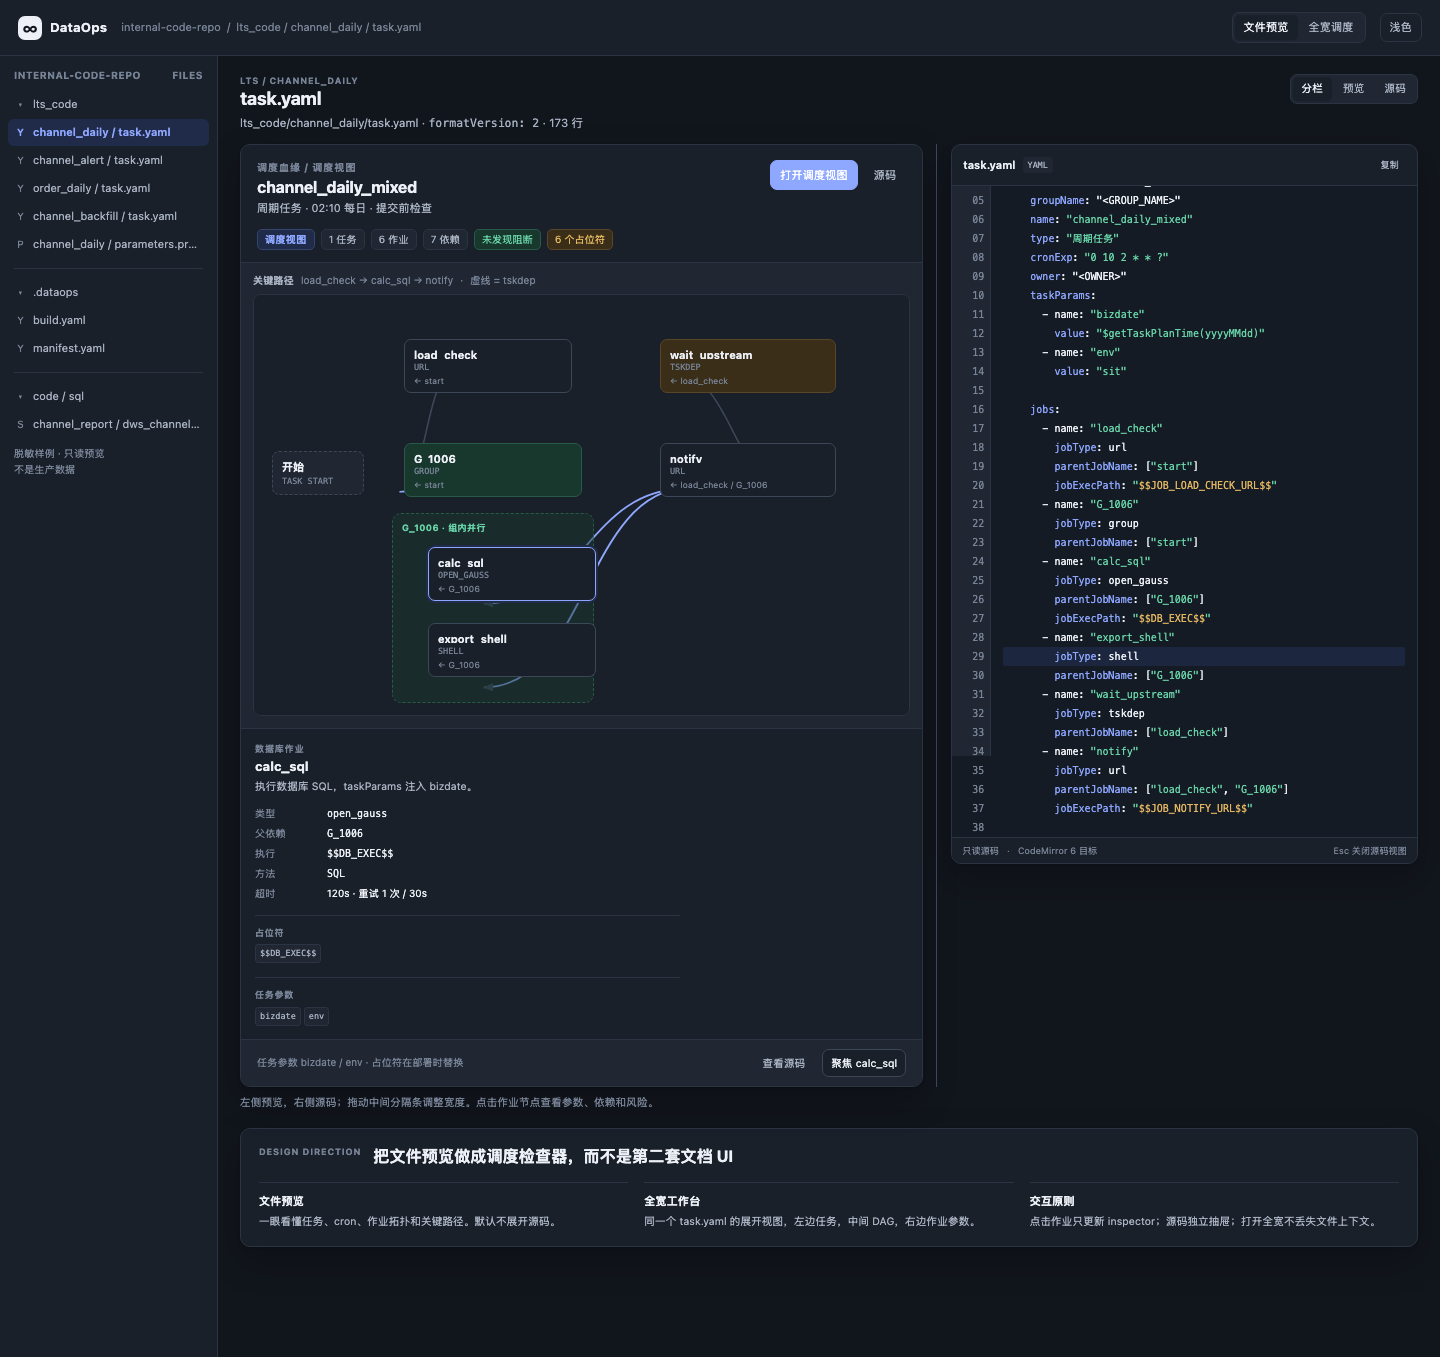
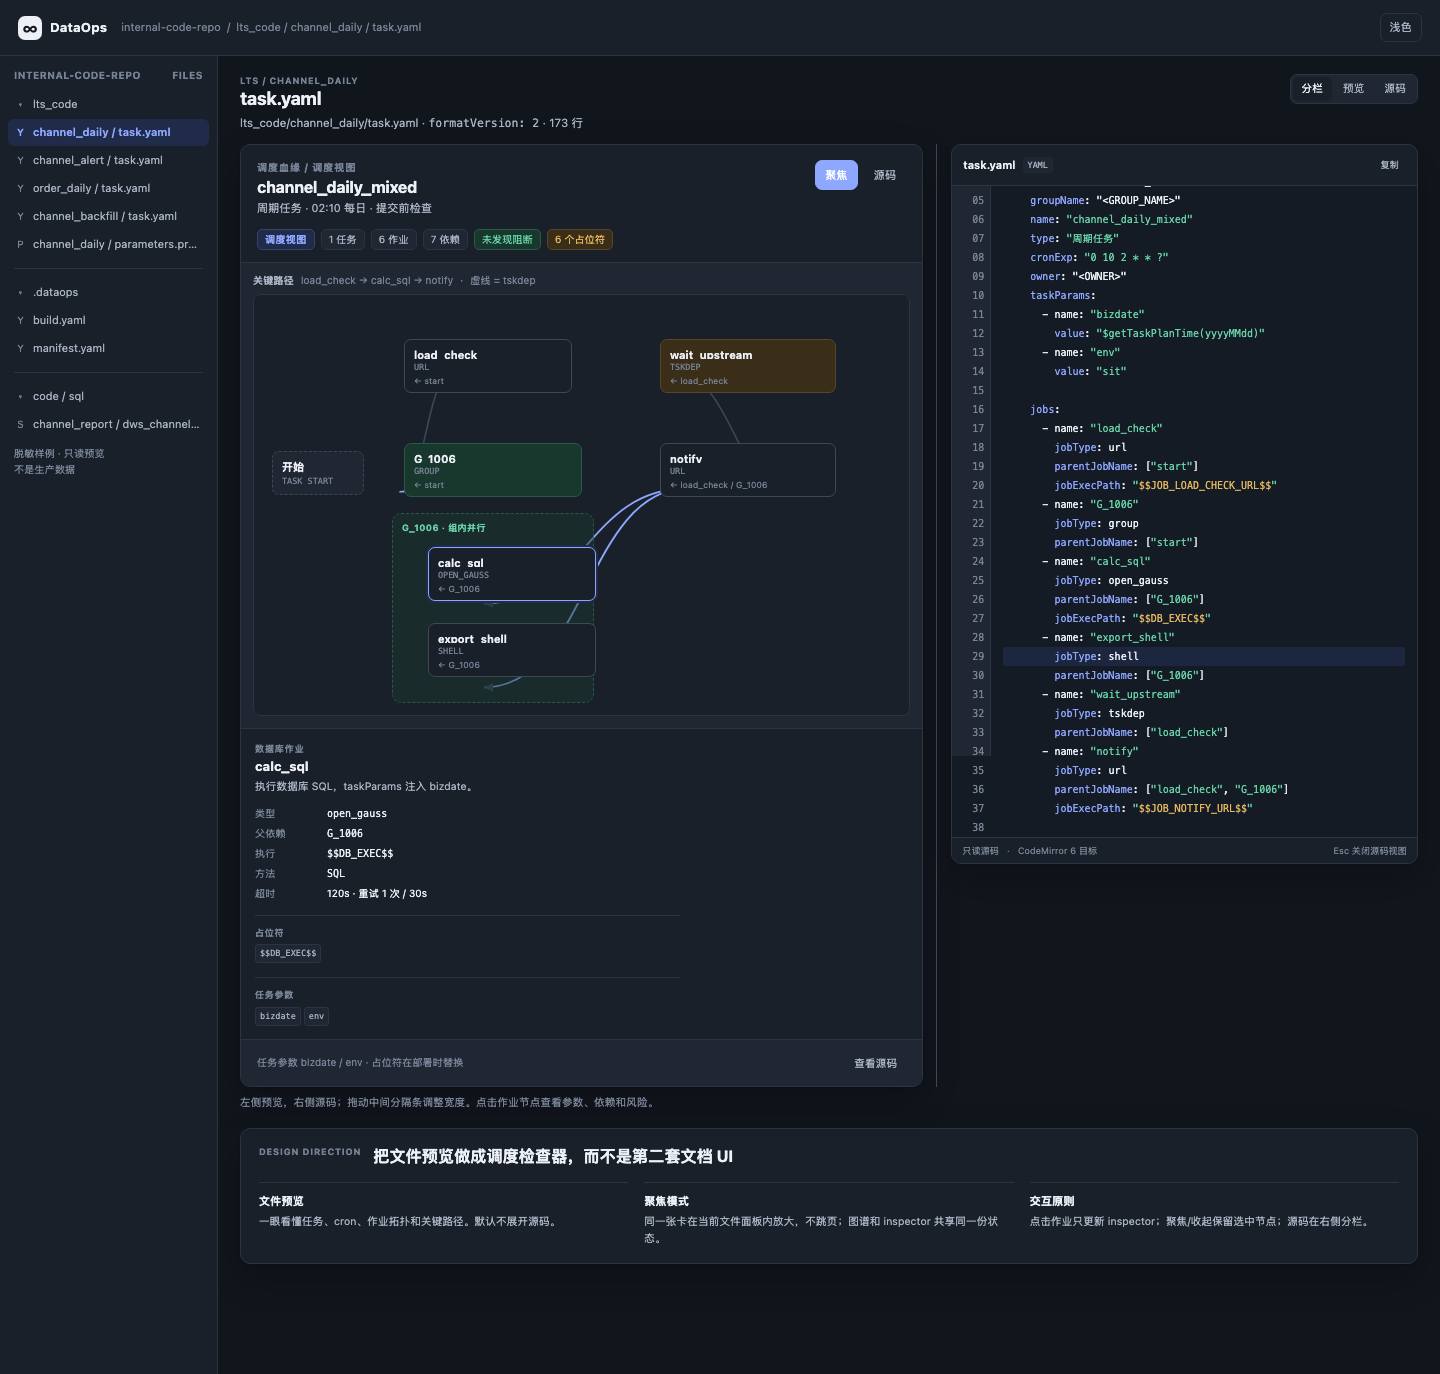
docs: prototype lineage card compact and focus states

diff --git a/prototype/schedule-lineage-redesign.html b/prototype/schedule-lineage-redesign.html
@@ -79,6 +79,16 @@
   .split-layout[data-view="preview"] .source-pane,.split-layout[data-view="preview"] .split-resizer{display:none}
   .split-layout[data-view="source"]{grid-template-columns:minmax(0,1fr)}
   .split-layout[data-view="source"] .preview-pane,.split-layout[data-view="source"] .split-resizer{display:none}
+  .split-layout[data-focus="true"]{grid-template-columns:minmax(0,1fr)}
+  .split-layout[data-focus="true"] .source-pane,.split-layout[data-focus="true"] .split-resizer{display:none}
+  .schedule-card[data-density="focus"]{height:calc(100vh - 190px);min-height:620px;display:flex;flex-direction:column}
+  .schedule-card[data-density="focus"] .card-head,.schedule-card[data-density="focus"] .meta-row,.schedule-card[data-density="focus"] .card-foot{flex:none}
+  .schedule-card[data-density="focus"] .card-body{flex:1;min-height:0;grid-template-columns:minmax(0,1fr) 252px;overflow:hidden}
+  .schedule-card[data-density="focus"] .graph-panel{overflow:auto;display:flex;flex-direction:column;min-height:0}
+  .schedule-card[data-density="focus"] .graph-scroll{flex:1;min-height:0}
+  .schedule-card[data-density="focus"] .graph-canvas{height:470px}
+  .split-layout[data-focus="true"] .schedule-card[data-density="focus"] .card-body{grid-template-columns:minmax(0,1fr) 262px}
+  .split-layout[data-focus="true"] .schedule-card[data-density="focus"] .inspector{display:block;border-left:1px solid var(--line);border-top:0;overflow:auto}
   .preview-pane{min-width:0}
   .split-layout[data-view="split"] .card-body{grid-template-columns:1fr}
   .split-layout[data-view="split"] .inspector{border-left:0;border-top:1px solid var(--line);display:grid;grid-template-columns:minmax(0,1fr) 210px;column-gap:18px}
@@ -216,10 +226,6 @@
     <div class="brand"><span class="brand-mark">∞</span><span>DataOps</span></div>
     <div class="crumb"><span>internal-code-repo</span><span>/</span><span class="path">lts_code / channel_daily / task.yaml</span></div>
     <div class="spacer"></div>
-    <div class="mode-switch" role="group" aria-label="预览模式">
-      <button id="modeFile" data-active="true">文件预览</button>
-      <button id="modeWork" data-active="false">全宽调度</button>
-    </div>
     <button class="theme" id="theme">深色</button>
   </header>
   <div class="shell">
@@ -258,7 +264,7 @@
         </div>
         <div class="split-layout" id="splitLayout" data-view="split">
           <div class="preview-pane">
-        <div class="schedule-card">
+        <div class="schedule-card" id="scheduleCard" data-density="compact">
           <div class="card-head">
             <div>
               <div class="card-kicker">调度血缘 / 调度视图</div>
@@ -266,7 +272,7 @@
               <p class="card-sub">周期任务 · 02:10 每日 · 提交前检查</p>
             </div>
             <div class="card-actions">
-              <button class="btn primary" id="openWork">打开调度视图</button>
+              <button class="btn primary" id="focusCard">聚焦</button>
               <button class="btn ghost" id="openSource">源码</button>
             </div>
           </div>
@@ -289,7 +295,7 @@
             <span class="muted">任务参数 bizdate / env · 占位符在部署时替换</span>
             <span class="spacer"></span>
             <button class="btn ghost" id="openSourceFoot">查看源码</button>
-            <button class="btn" id="focusWork">聚焦 calc_sql</button>
+
           </div>
         </div>
           </div>
@@ -313,45 +319,12 @@
           <div class="notes-head"><span class="eyebrow">DESIGN DIRECTION</span><h2>把文件预览做成调度检查器，而不是第二套文档 UI</h2></div>
           <div class="notes-grid">
             <article><b>文件预览</b><p>一眼看懂任务、cron、作业拓扑和关键路径。默认不展开源码。</p></article>
-            <article><b>全宽工作台</b><p>同一个 task.yaml 的展开视图，左边任务，中间 DAG，右边作业参数。</p></article>
-            <article><b>交互原则</b><p>点击作业只更新 inspector；源码独立抽屉；打开全宽不丢失文件上下文。</p></article>
+            <article><b>聚焦模式</b><p>同一张卡在当前文件面板内放大，不跳页；图谱和 inspector 共享同一份状态。</p></article>
+            <article><b>交互原则</b><p>点击作业只更新 inspector；聚焦/收起保留选中节点；源码在右侧分栏。</p></article>
           </div>
         </section>
       </section>
 
-      <section class="view" id="workView" hidden>
-        <div class="wb">
-          <div class="wb-top">
-            <div class="wb-crumb"><b>internal-code-repo</b> / lts_code / channel_daily / <b>task.yaml</b></div>
-            <div class="wb-tabs" role="tablist">
-              <button>设计视图</button>
-              <button>生产视图</button>
-              <button data-active="true">调度视图</button>
-            </div>
-            <div class="spacer"></div>
-            <button class="btn ghost" id="backToFile">返回文件</button>
-            <button class="btn ghost" id="openSourceWork">源码</button>
-          </div>
-          <div class="wb-body">
-            <aside class="wb-left">
-              <div class="section-label">任务</div>
-              <button class="tree-row" data-active="true"><span class="tree-mark">●</span><span class="tree-label">channel_daily_mixed</span></button>
-              <button class="tree-row"><span class="tree-mark">○</span><span class="tree-label">order_daily_serial</span></button>
-              <button class="tree-row"><span class="tree-mark">○</span><span class="tree-label">channel_backfill</span></button>
-              <button class="tree-row"><span class="tree-mark">○</span><span class="tree-label">channel_alert_trigger</span></button>
-              <div class="rail-sep"></div>
-              <div class="section-label">概览</div>
-              <div class="rail-note">6 个作业<br>7 条依赖<br>6 个占位符<br><br>cron 0 10 2 * * ?</div>
-            </aside>
-            <section class="wb-canvas">
-              <div class="graph-note"><b>调度血缘</b><span>channel_daily_mixed</span><span>·</span><span>点击作业查看右侧详情</span></div>
-              <div class="graph-scroll"><div class="graph-canvas" id="workGraph"></div></div>
-            </section>
-            <aside class="wb-right"><aside class="inspector" id="workInspector" aria-live="polite"></aside></aside>
-          </div>
-          <div class="wb-foot"><span>只读视图 · 来自 task.yaml</span><span>·</span><span>参数在 deploy 阶段替换</span><span class="spacer"></span><span class="hint">React Flow 原型示意</span></div>
-        </div>
-      </section>
     </main>
   </div>
 </div>
@@ -447,16 +420,8 @@ function inspectorHtml(){
 }
 function renderAll(){
   renderGraph($('cardGraph'));
-  renderGraph($('workGraph'));
   $('cardInspector').innerHTML=inspectorHtml();
-  $('workInspector').innerHTML=inspectorHtml();
   renderSource();
-}
-function setMode(mode){
-  $('fileView').hidden=mode!=='file';
-  $('workView').hidden=mode!=='work';
-  $('modeFile').dataset.active=String(mode==='file');
-  $('modeWork').dataset.active=String(mode==='work');
 }
 const jobLine = { load_check: 18, G_1006: 23, calc_sql: 29, export_shell: 34, wait_upstream: 38, notify: 42 };
 function setViewMode(view){
@@ -464,6 +429,17 @@ function setViewMode(view){
   $('splitLayout').dataset.view = target;
   document.querySelectorAll('#viewSwitch button').forEach(button=>button.dataset.active=String(button.dataset.view===target));
   if (target === 'source') renderSource();
+}
+function setFocus(next){
+  const focused = Boolean(next);
+  $('scheduleCard').dataset.density = focused ? 'focus' : 'compact';
+  $('splitLayout').dataset.focus = String(focused);
+  $('focusCard').textContent = focused ? '退出聚焦' : '聚焦';
+  $('focusCard').dataset.active = String(focused);
+  if (focused) {
+    $('splitLayout').dataset.view = 'split';
+    document.querySelectorAll('#viewSwitch button').forEach(button=>button.dataset.active=String(button.dataset.view==='split'));
+  }
 }
 function highlightLine(line){
   const raw = esc(line);
@@ -484,31 +460,21 @@ function renderSource(){
     active.scrollIntoView({block:'center'});
   }
 }
-function setMode(mode){
-  $('fileView').hidden=mode!=='file';
-  $('workView').hidden=mode!=='work';
-  $('modeFile').dataset.active=String(mode==='file');
-  $('modeWork').dataset.active=String(mode==='work');
-}
 function openSource(){
-  setMode('file');
+  setFocus(false);
   setViewMode('source');
 }
 function closeSource(){
+  setFocus(false);
   setViewMode('split');
 }
 function toast(text){const el=$('toast');el.textContent=text;el.classList.add('show');clearTimeout(window.__toast);window.__toast=setTimeout(()=>el.classList.remove('show'),1500)}
-$('modeFile').onclick=()=>setMode('file');
-$('modeWork').onclick=()=>setMode('work');
-$('openWork').onclick=()=>{setMode('work');setViewMode('split')};
-$('backToFile').onclick=()=>setMode('file');
 $('openSource').onclick=openSource;
 $('openSourceFoot').onclick=openSource;
-$('openSourceWork').onclick=openSource;
 $('copySource').onclick=()=>{navigator.clipboard?.writeText(sourceText);toast('源码已复制')};
-$('focusWork').onclick=()=>{selected.id='calc_sql';setMode('work');renderAll();toast('已聚焦 calc_sql')};
+$('focusCard').onclick=()=>{setFocus($('scheduleCard').dataset.density!=='focus');toast($('scheduleCard').dataset.density==='focus'?'已聚焦当前卡片':'已收起')};
 $('theme').onclick=()=>{const root=document.documentElement;const dark=root.dataset.theme!=='dark';root.dataset.theme=dark?'dark':'light';$('theme').textContent=dark?'浅色':'深色'};
-document.querySelectorAll('#viewSwitch button').forEach(button=>button.onclick=()=>setViewMode(button.dataset.view));
+document.querySelectorAll('#viewSwitch button').forEach(button=>button.onclick=()=>{setFocus(false);setViewMode(button.dataset.view)});
 let splitDragging = false;
 $('splitResizer').onpointerdown = (event) => { splitDragging = true; $('splitResizer').setPointerCapture?.(event.pointerId); document.body.style.cursor='col-resize'; };
 window.addEventListener('pointermove', (event) => {
@@ -520,13 +486,14 @@ window.addEventListener('pointermove', (event) => {
 window.addEventListener('pointerup', () => { if (!splitDragging) return; splitDragging = false; document.body.style.cursor=''; });
 document.addEventListener('keydown', (event) => {
   if (event.key !== 'Escape') return;
-  if ($('splitLayout').dataset.view === 'source') setViewMode('split');
+  if ($('splitLayout').dataset.focus === 'true') setFocus(false);
+  else if ($('splitLayout').dataset.view === 'source') setViewMode('split');
 });
 
 const query = new URLSearchParams(location.search);
-const initialMode = query.get('mode') === 'work' ? 'work' : 'file';
-setMode(initialMode);
-setViewMode(query.get('view') || (query.get('drawer') === 'source' ? 'source' : 'split'));
+const initialFocus = query.get('density') === 'focus';
+setFocus(initialFocus);
+setViewMode(initialFocus ? 'split' : (query.get('view') || 'split'));
 renderAll();
 </script>
 </body>

diff --git a/docs/design/schedule-lineage-redesign.md b/docs/design/schedule-lineage-redesign.md
@@ -1,115 +1,104 @@
 # 调度血缘与代码预览重设计
 
-> 状态：原型提案，未改运行时代码。  
+> 状态：原型。当前只改原型和文档，运行时代码保持上一版。  
 > 原型：[schedule-lineage-redesign.html](../../prototype/schedule-lineage-redesign.html)  
-> 截图：[文件预览](../../prototype/shots/schedule-lineage-redesign.png) · [全宽工作台](../../prototype/shots/schedule-lineage-redesign-work.png)
+> 截图：[紧凑卡](../../prototype/shots/schedule-lineage-redesign.png) · [聚焦卡](../../prototype/shots/schedule-lineage-redesign-focus.png)
 
-## 1. 要解决的问题
+## 1. 结论
 
-当前 `task.yaml` 的文档预览和全宽血缘工作台是两套体验：
+不再保留“紧凑血缘卡 + 全宽血缘工作台”两套表面。
 
-- 卡片里塞不下 DAG，只能横向滚动；
-- 打开全宽工作台后丢失文件上下文；
-- 设计/生产/调度三个视图存在，但调度视图和数据文件没有形成同一个对象；
-- 任务、group、job、tskdep 视觉层级接近；
-- 参数、占位符、源码、拓扑同时出现，没有渐进披露。
+改为 **一张卡，两个密度**：
 
-## 2. 设计方向
-
-### 两级表面
-
-| 层级 | 职责 |
+| 密度 | 场景 |
 |---|---|
-| 文件预览卡 | 一眼看懂任务、cron、作业、关键路径、风险 |
-| 全宽调度工作台 | 探索 DAG、选中作业、查看参数和源码 |
+| compact | 对话、文件预览、右栏 |
+| focus | 同一文件面板内放大，不跳页，不打开全屏工作台 |
 
-卡片不承担完整 DAG 编排，工作台不重复文件管理。
+focus 只改变当前卡片布局，不创建新的页面、tab 或 overlay。
 
-### 文件预览卡
+## 2. 设计原则
 
-- 头部：task name、任务类型、cron、状态
-- 统计：任务数、作业数、依赖数、占位符数
-- 主区：关键路径 + 分组作业图
-- 右栏：当前选中作业的 inspector
-- 底部：任务参数、源码入口、打开调度视图
+- 文件上下文不丢失
+- 选中作业、图谱、view 状态在 compact / focus 之间共享
+- 卡片自己就是血缘表面，不再有“打开工作台”这个跳转
+- 源码继续放在文件预览的右侧分栏
 - 默认不展示源码
+- 没有数据就显示空状态，不拿 mock 填满
 
-### 全宽工作台
+## 3. 卡片结构
 
 ```text
-文件面包屑 / 设计 / 生产 / 调度 tabs
-左侧任务列表
-中间调度 DAG
-右侧作业详情
-底部只读说明
+调度血缘 / 调度视图
+channel_daily_mixed
+周期任务 · 02:10 每日
+
+[调度视图] [1 任务] [6 作业] [7 依赖] [未发现阻断]
+
+关键路径
+DAG
+
+作业 inspector
+
+任务参数 / 占位符 [聚焦] [源码]
 ```
 
-- 从文件卡打开时直接进入调度视图
-- 保留 `internal-code-repo / lts_code / channel_daily / task.yaml` 面包屑
-- 点击作业只更新右侧 inspector，不重排图
-- 源码统一放在右侧分栏编辑器，不压在图下面，不再做源码 tab 或抽屉
+### compact
 
-## 3. 节点语义
+- 卡片在当前文件预览列内
+- DAG 在上，inspector 在下
+- 右侧仍可展开源码分栏
+- 高度随内容
 
-| 类型 | 视觉 |
-|---|---|
-| start | 虚线小节点 |
-| url | 蓝色描边 |
-| group | 绿色组框，组内并行 |
-| open_gauss / libra | 数据库作业，绿色描边 |
-| shell | 中性描边 |
-| tskdep | 橙色虚线边，跨任务依赖 |
+### focus
 
-选中节点只做一次高亮，不做大面积阴影。
+- 同一张卡在当前面板内增高
+- DAG 与 inspector 左右排列
+- 源码分栏暂时收起
+- 顶部按钮变为“退出聚焦”
+- 不覆盖整个应用，不出现第二套 header
 
 ## 4. 交互
 
-- 点击节点：更新 inspector
-- 点击“打开调度视图”：切换到全宽工作台
-- 源码：右侧 CodeMirror 6 分栏，只读语法高亮
-- 拖动中间分隔条调整预览/源码宽度
-- 分栏 / 预览 / 源码三种视图模式
-- Esc：从源码视图回到分栏
-- 深色/浅色切换
+- 点击作业：更新 inspector，同时同步源码选中行
+- 点击“聚焦”：卡片切换密度，保留选中作业
+- 点击“退出聚焦”：回到 compact，仍在同一文件
+- 点击“源码”：退出聚焦，切到源码分栏
+- Esc：退出聚焦或从源码回到分栏
+- 拖动分隔条调整预览/源码宽度
 - 1024 / 1440 / 1600 / 1920 无横向溢出
 
-## 4.1 编辑器选型
+## 5. 编辑器
 
-采用 **CodeMirror**，不是 Monaco。第一版先用 CodeMirror 5.65 standalone 落地，后续可升级到 CodeMirror 6：
+采用 **CodeMirror**，不是 Monaco。
 
-- 模块化，按 YAML / SQL 语言包加载
-- 只读预览不需要 VS Code 级语言服务
-- 比 Monaco 更轻，适合侧栏和离线 bundle
-- 支持行号、语法高亮、搜索、折叠、主题
-- 与 DSH 主题 token 对齐，不做第二套颜色系统
-- 第一版使用 CodeMirror 5.65 的 UMD lib + YAML/SQL mode，避免引入打包器
+- 当前实现使用 CodeMirror 5.65 standalone，避免引入打包器
+- YAML / SQL 只读高亮
+- 行号、复制、主题
+- 后续可升级 CodeMirror 6
 
-第一版先只读，不提供编辑、保存、提交。
+## 6. 原型范围
 
-## 5. 原型范围
+包含：
 
-原型包含：
-
-- 文件预览和全宽工作台两种模式
-- 真实 `channel_daily` 6 作业数据
-- 节点选择
-- 左右分栏
-- 源码语法高亮和行号
-- 分栏 / 预览 / 源码模式
+- 一张卡
+- compact / focus 两种密度
+- 右侧源码分栏
+- 路径与任务参数
 - 明暗主题
-- 设计说明区
 
-原型不包含：
+不包含：
 
-- DSH React Flow 的最终接入
+- 全宽工作台
+- 新的页面或路由
 - 真实调度平台数据
 - 写操作
-- 完整 LTS schema
 
-## 6. 待讨论
+## 7. 旧全宽工作台
 
-1. 文件预览卡是否保留右侧 inspector，还是仅保留拓扑图？
-2. 全宽工作台从卡片打开时，是覆盖当前文件，还是保留返回文件路径？
-3. 源码默认放抽屉还是右栏 tab？
-4. 生产视图、设计视图与调度视图是否共用同一套任务列表？
-5. 任务列表放在左栏，还是只保留面包屑？
+保留 `flow.js` 作为未来复杂图谱的渲染器，但当前产品入口不再默认使用它；复杂图谱需要时再单独设计 focus/full 模式。
+
+## 8. 待确认
+
+- compact 下 inspector 是否一直显示，还是仅在选中作业后出现？
+- focus 是否允许用户手动调整卡片高度？
